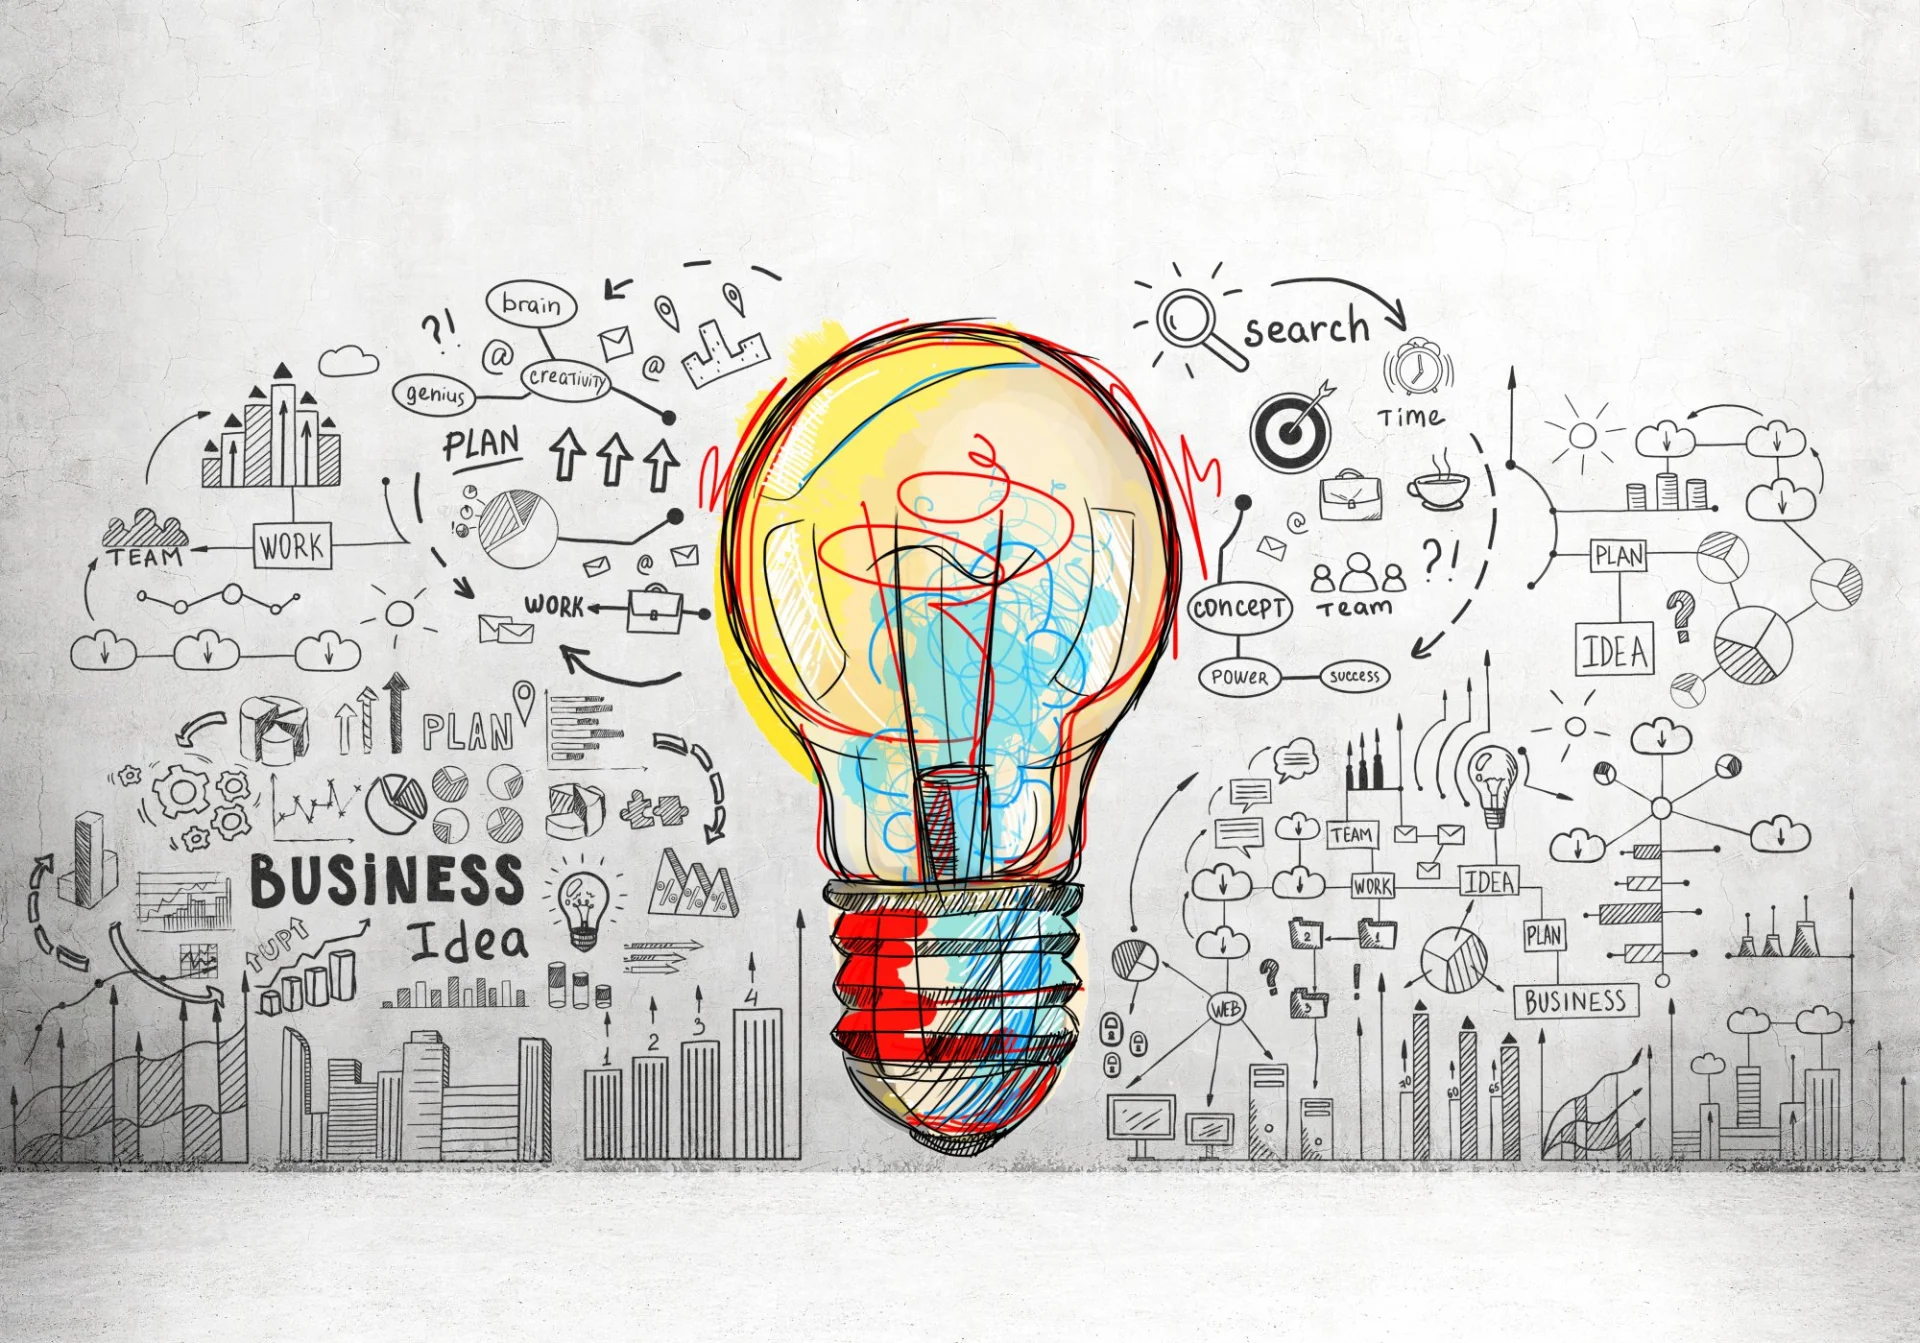
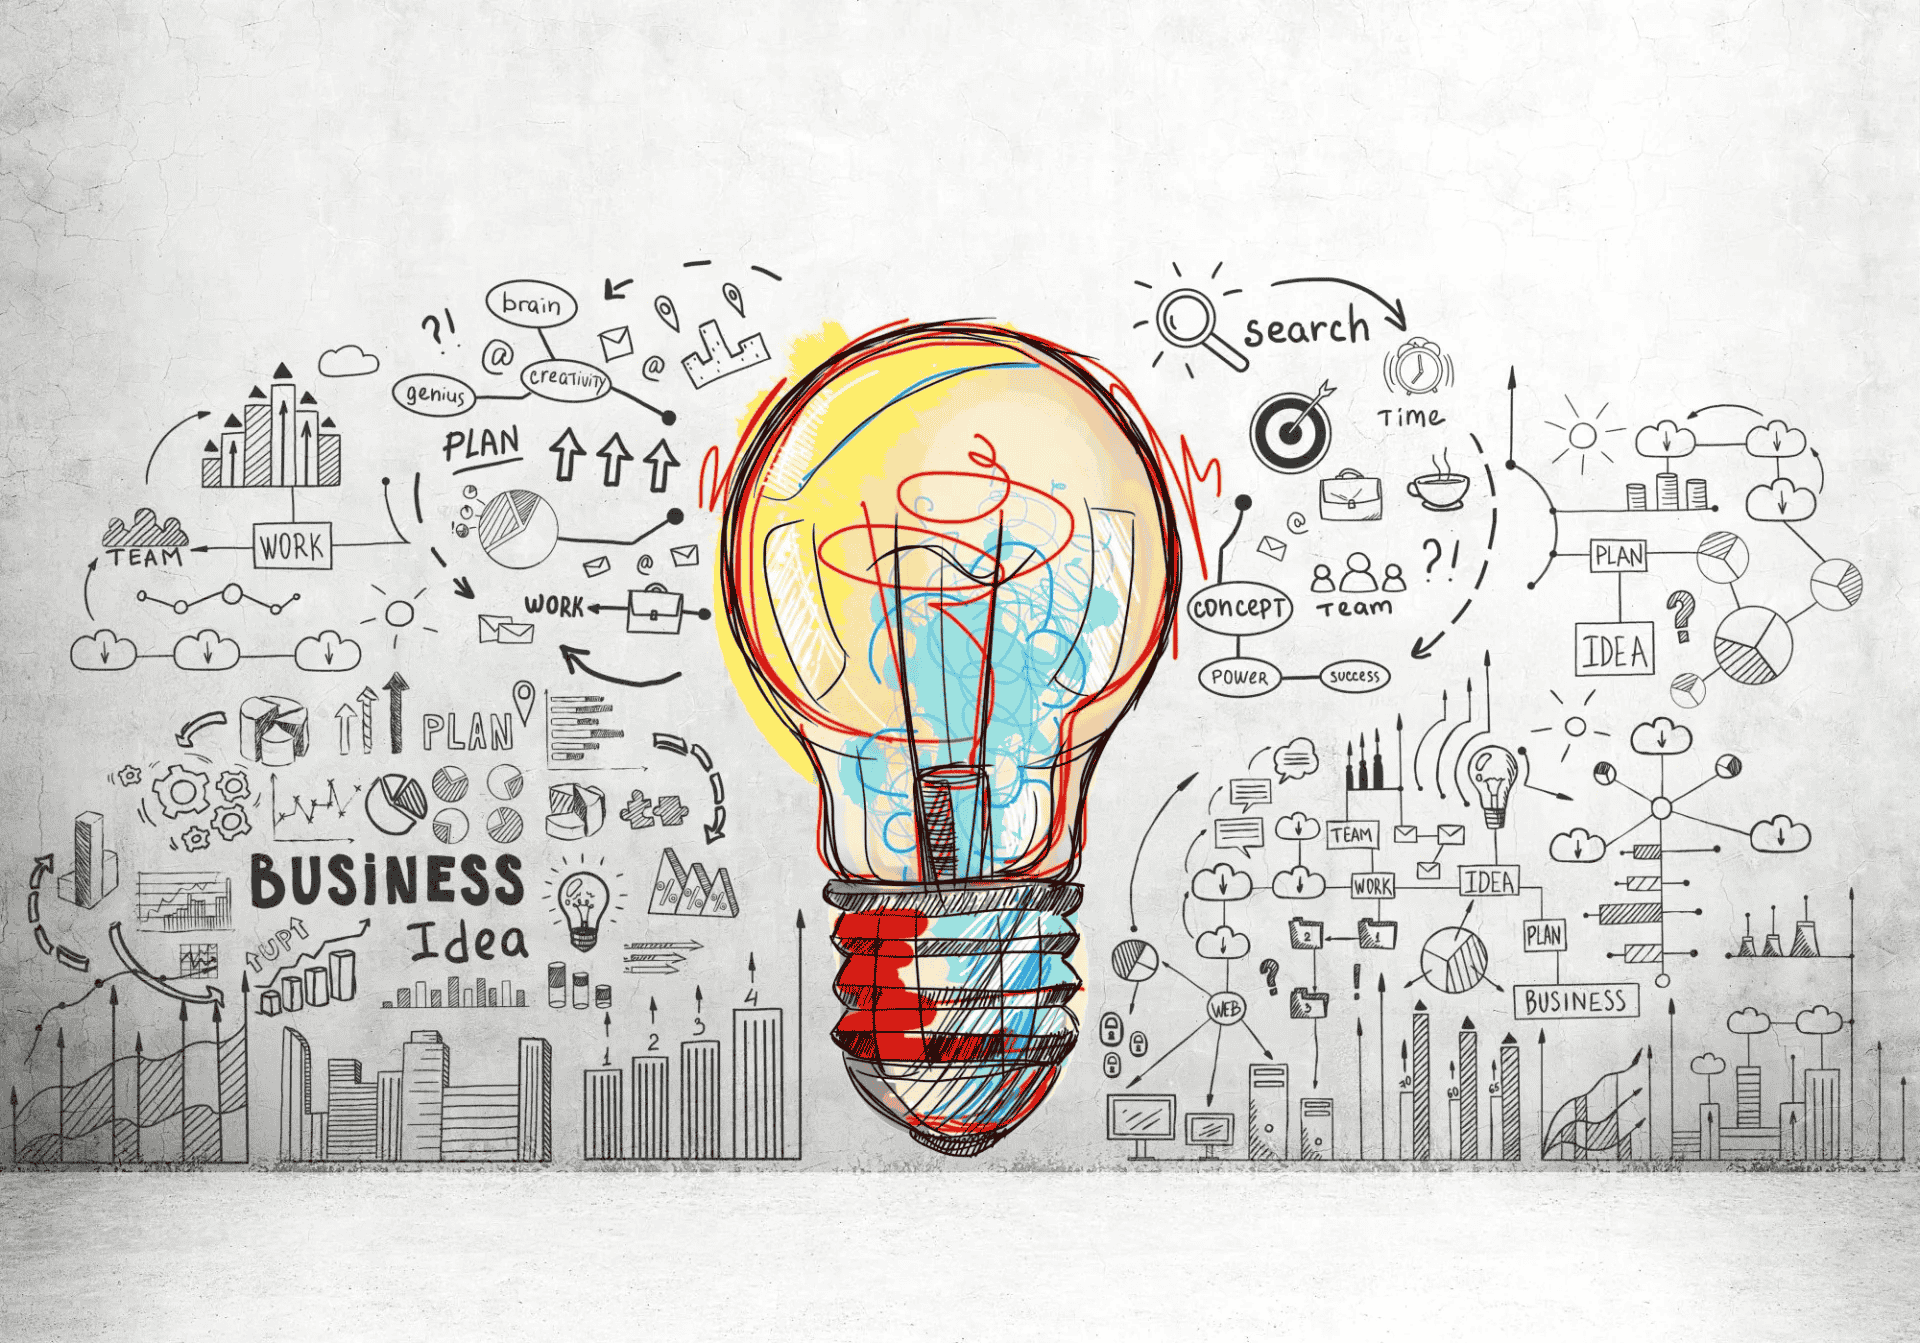
Compress images

Changed region(s): [[0.375, 0.2442, 0.625, 0.8548]]

diff --git a/src/Components/AboutUs.jsx b/src/Components/AboutUs.jsx
@@ -615,11 +615,10 @@ const AboutUs = () => {
                   sx={{
                     position: "absolute",
                     inset: 0,
-                    display: "flex",
                     alignItems: "center",
                     justifyContent: "center",
                     background: "#e8f0fe",
-                    display: "none",
+                    display: "none"
                   }}
                 >
                   <Stack alignItems="center" spacing={2}>

diff --git a/index.html b/index.html
@@ -2,7 +2,7 @@
 <html lang="en">
   <head>
     <meta charset="UTF-8" />
-    <link rel="icon" type="image/x-icon" href="/public/workisy logo-01.png" />
+    <link rel="icon" type="image/x-icon" href="/workisy logo-01.png" />
     <link href="https://fonts.googleapis.com/css2?family=Urbanist:wght@400;500;600;700;800&display=swap" rel="stylesheet">
 
     <meta name="viewport" content="width=device-width, initial-scale=1.0" />

diff --git a/src/utils/useSEO.jsx b/src/utils/useSEO.jsx
@@ -6,7 +6,7 @@ export const useSEO = ({
   keywords = "jobs, AI, career, resume, job matching, employment, workisy, job search",
   ogTitle,
   ogDescription,
-  ogImage = "/public/workisy logo-01.png",
+  ogImage = "/workisy logo-01.png",
   ogUrl,
   twitterCard = "summary_large_image",
   canonicalUrl,
